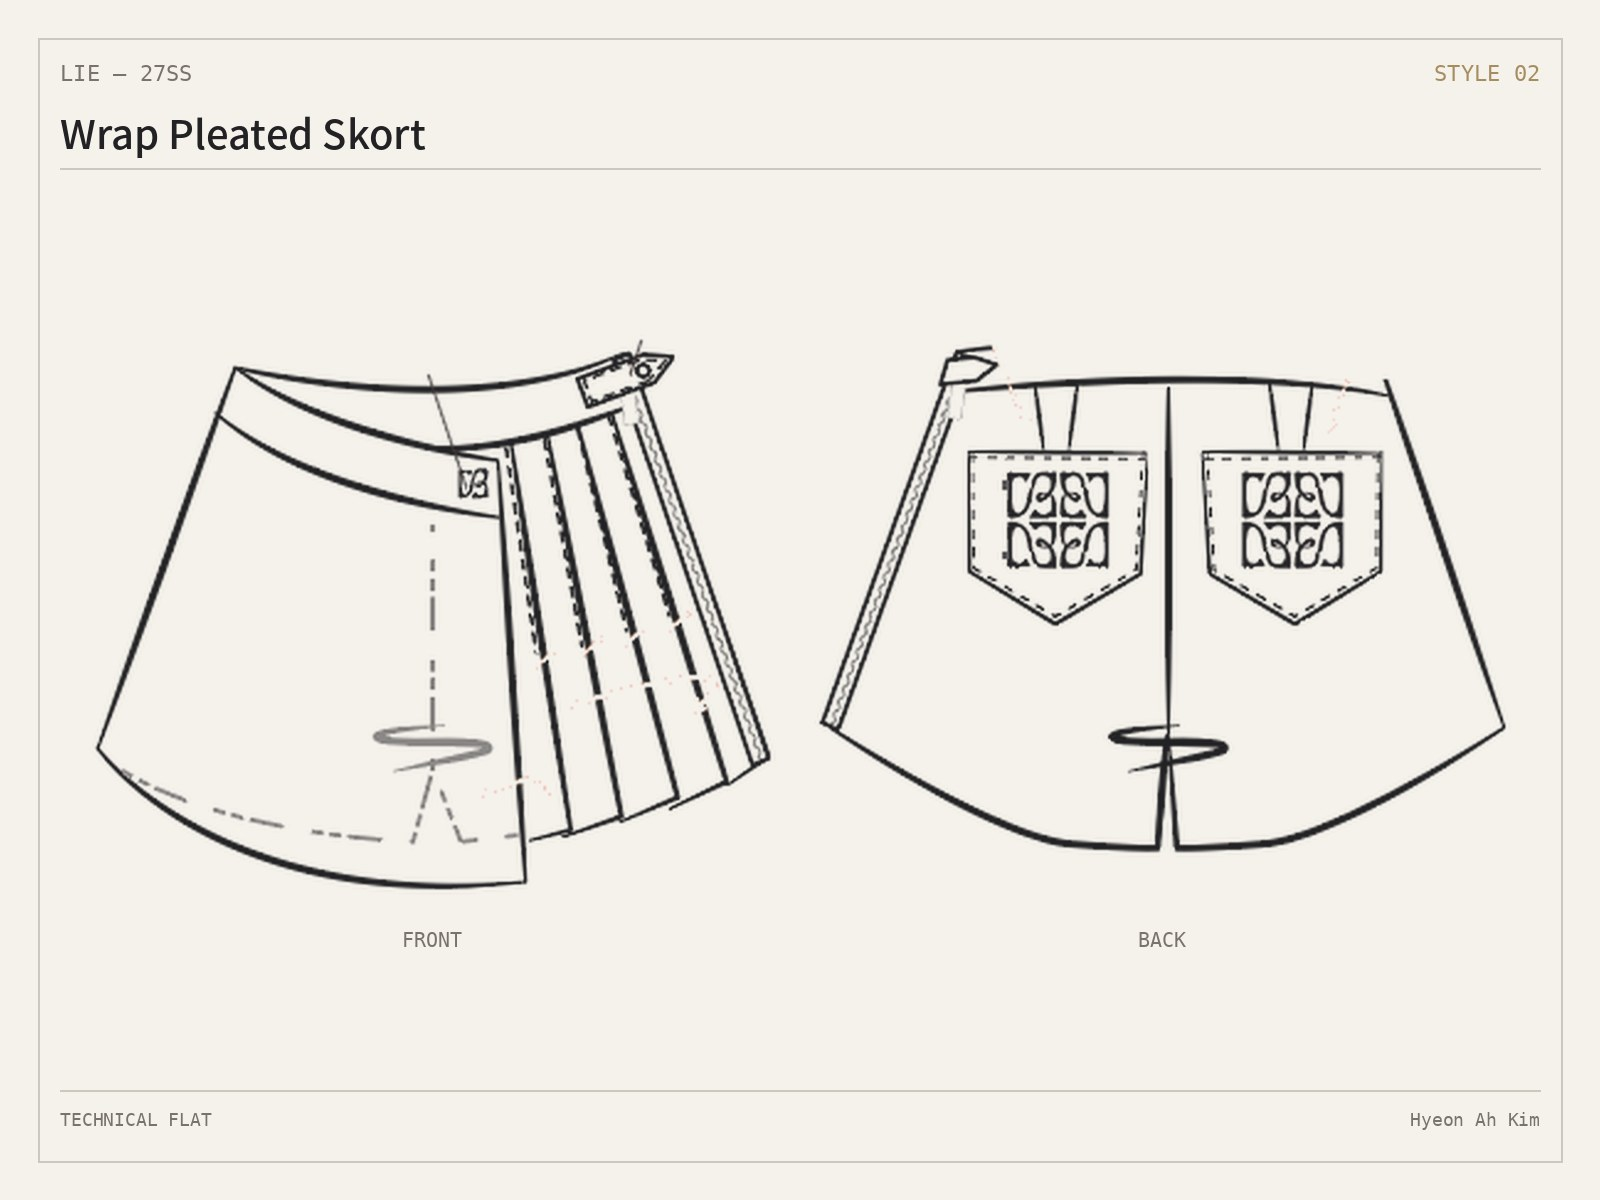
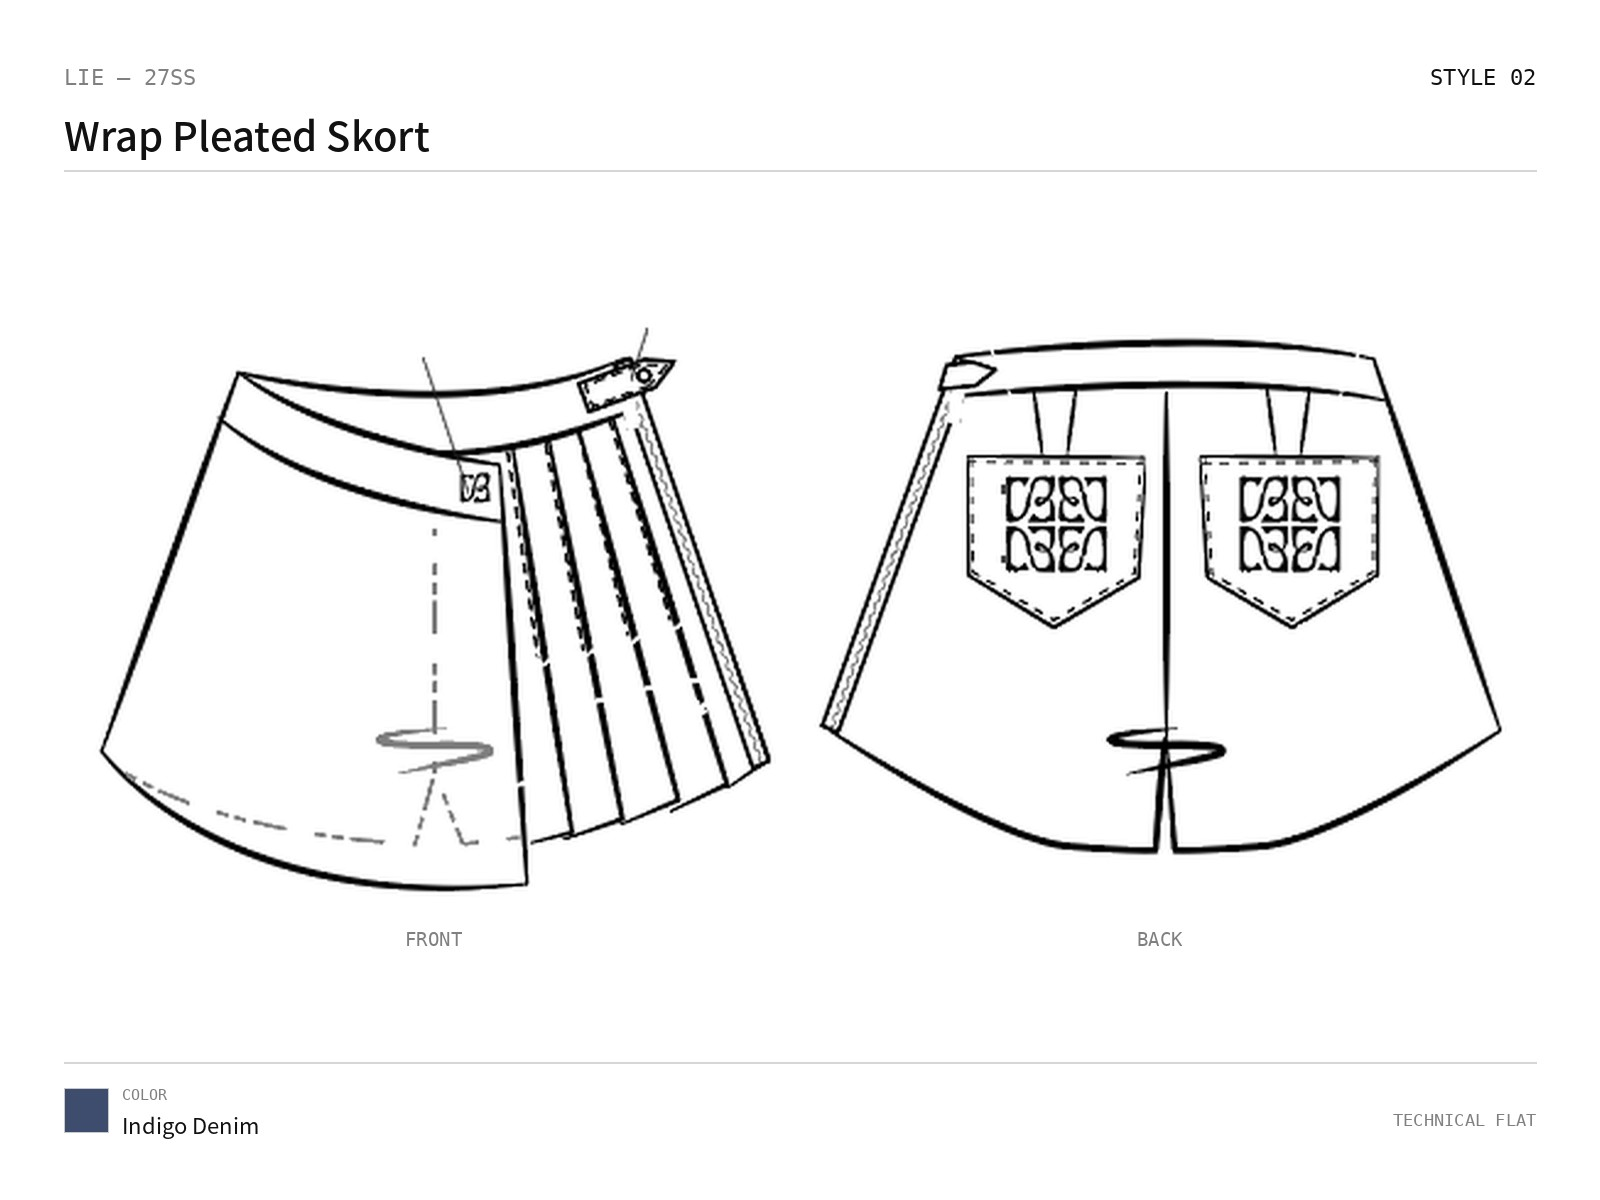
27SS Design to Show: B&W technical flats (annotations removed, shapes verified) paired with looks + color chips; 24FW flats to B&W with chips
Claude-Session: https://claude.ai/code/session_01Bs1wxDBAEjZhvDBkhAXViZ

diff --git a/27ss.html b/27ss.html
@@ -197,6 +197,17 @@
         }
         .logo-note { padding: 0; margin: -24px 0 18px; color: #777; font-size: 14px; font-weight: 300; }
         .g-grid.r-45 .img-wrap { background: #f5f2ec; }
+        /* Design to Show */
+        .d2s-grid { display: grid; grid-template-columns: repeat(2, minmax(0, 1fr)); gap: 44px 22px; }
+        .d2s { margin: 0; }
+        .d2s-row { display: grid; grid-template-columns: 2fr 1fr; gap: 8px; }
+        .d2s .img-wrap { background: #fff; cursor: zoom-in; }
+        .d2s .img-wrap.flat { aspect-ratio: 4 / 3; }
+        .d2s .img-wrap.look { aspect-ratio: 2 / 3; background: #111; }
+        .d2s .img-wrap img { width: 100%; height: 100%; object-fit: cover; object-position: center top; }
+        .d2s figcaption { margin-top: 12px; font-family: monospace; font-size: 11px; letter-spacing: 2px; color: #777; text-transform: uppercase; }
+        .d2s figcaption b { color: #ddd; font-weight: 400; margin-right: 10px; }
+        @media (max-width: 1000px) { .d2s-grid { grid-template-columns: 1fr; } }
     </style>
     <link rel="stylesheet" href="style.css">
 </head>
@@ -254,8 +265,8 @@
         <div class="gallery-section-title" data-slot="scene">Show Scenes <small>03</small></div>
         <div class="g-block"><div class="g-grid cols-3 r-32"><div class="img-wrap"><img src="images/27ss/scene_01.jpg" alt="27SS Show — Red stage" loading="lazy" decoding="async"></div><div class="img-wrap"><img src="images/27ss/scene_02.jpg" alt="27SS Show — Red stage" loading="lazy" decoding="async"></div><div class="img-wrap"><img src="images/27ss/scene_03.jpg" alt="27SS Show — Finale" loading="lazy" decoding="async"></div></div></div>
 
-        <div class="gallery-section-title" data-slot="tf">Technical Flat <small>12</small></div>
-        <div class="g-block"><div class="g-grid cols-2 r-43"><div class="img-wrap"><img src="images/27ss/flat_01.jpg" alt="27SS Technical Flat 01" loading="lazy" decoding="async"></div><div class="img-wrap"><img src="images/27ss/flat_02.jpg" alt="27SS Technical Flat 02" loading="lazy" decoding="async"></div><div class="img-wrap"><img src="images/27ss/flat_03.jpg" alt="27SS Technical Flat 03" loading="lazy" decoding="async"></div><div class="img-wrap"><img src="images/27ss/flat_04.jpg" alt="27SS Technical Flat 04" loading="lazy" decoding="async"></div><div class="img-wrap"><img src="images/27ss/flat_05.jpg" alt="27SS Technical Flat 05" loading="lazy" decoding="async"></div><div class="img-wrap"><img src="images/27ss/flat_06.jpg" alt="27SS Technical Flat 06" loading="lazy" decoding="async"></div><div class="img-wrap"><img src="images/27ss/flat_07.jpg" alt="27SS Technical Flat 07" loading="lazy" decoding="async"></div><div class="img-wrap"><img src="images/27ss/flat_08.jpg" alt="27SS Technical Flat 08" loading="lazy" decoding="async"></div><div class="img-wrap"><img src="images/27ss/flat_09.jpg" alt="27SS Technical Flat 09" loading="lazy" decoding="async"></div><div class="img-wrap"><img src="images/27ss/flat_10.jpg" alt="27SS Technical Flat 10" loading="lazy" decoding="async"></div><div class="img-wrap"><img src="images/27ss/flat_11.jpg" alt="27SS Technical Flat 11" loading="lazy" decoding="async"></div><div class="img-wrap"><img src="images/27ss/flat_12.jpg" alt="27SS Technical Flat 12" loading="lazy" decoding="async"></div></div></div>
+        <div class="gallery-section-title" data-slot="tf">Design to Show <small>12</small></div>
+        <div class="g-block"><div class="d2s-grid"><figure class="d2s"><div class="d2s-row"><div class="img-wrap flat"><img src="images/27ss/flat_01.jpg" alt="27SS Style 01 technical flat" loading="lazy" decoding="async"></div><div class="img-wrap look"><img src="images/27ss/lookbook_03.jpg" alt="27SS Style 01 — Lookbook 03" loading="lazy" decoding="async"></div></div><figcaption><b>STYLE 01</b> Design → Lookbook 03</figcaption></figure><figure class="d2s"><div class="d2s-row"><div class="img-wrap flat"><img src="images/27ss/flat_02.jpg" alt="27SS Style 02 technical flat" loading="lazy" decoding="async"></div><div class="img-wrap look"><img src="images/27ss/lookbook_03.jpg" alt="27SS Style 02 — Lookbook 03" loading="lazy" decoding="async"></div></div><figcaption><b>STYLE 02</b> Design → Lookbook 03</figcaption></figure><figure class="d2s"><div class="d2s-row"><div class="img-wrap flat"><img src="images/27ss/flat_03.jpg" alt="27SS Style 03 technical flat" loading="lazy" decoding="async"></div><div class="img-wrap look"><img src="images/27ss/lookbook_09.jpg" alt="27SS Style 03 — Lookbook 09" loading="lazy" decoding="async"></div></div><figcaption><b>STYLE 03</b> Design → Lookbook 09</figcaption></figure><figure class="d2s"><div class="d2s-row"><div class="img-wrap flat"><img src="images/27ss/flat_04.jpg" alt="27SS Style 04 technical flat" loading="lazy" decoding="async"></div><div class="img-wrap look"><img src="images/27ss/lookbook_06.jpg" alt="27SS Style 04 — Lookbook 06" loading="lazy" decoding="async"></div></div><figcaption><b>STYLE 04</b> Design → Lookbook 06</figcaption></figure><figure class="d2s"><div class="d2s-row"><div class="img-wrap flat"><img src="images/27ss/flat_05.jpg" alt="27SS Style 05 technical flat" loading="lazy" decoding="async"></div><div class="img-wrap look"><img src="images/27ss/lookbook_10.jpg" alt="27SS Style 05 — Lookbook 10" loading="lazy" decoding="async"></div></div><figcaption><b>STYLE 05</b> Design → Lookbook 10</figcaption></figure><figure class="d2s"><div class="d2s-row"><div class="img-wrap flat"><img src="images/27ss/flat_06.jpg" alt="27SS Style 06 technical flat" loading="lazy" decoding="async"></div><div class="img-wrap look"><img src="images/27ss/lookbook_07.jpg" alt="27SS Style 06 — Lookbook 07" loading="lazy" decoding="async"></div></div><figcaption><b>STYLE 06</b> Design → Lookbook 07</figcaption></figure><figure class="d2s"><div class="d2s-row"><div class="img-wrap flat"><img src="images/27ss/flat_07.jpg" alt="27SS Style 07 technical flat" loading="lazy" decoding="async"></div><div class="img-wrap look"><img src="images/27ss/lookbook_11.jpg" alt="27SS Style 07 — Lookbook 11" loading="lazy" decoding="async"></div></div><figcaption><b>STYLE 07</b> Design → Lookbook 11</figcaption></figure><figure class="d2s"><div class="d2s-row"><div class="img-wrap flat"><img src="images/27ss/flat_08.jpg" alt="27SS Style 08 technical flat" loading="lazy" decoding="async"></div><div class="img-wrap look"><img src="images/27ss/lookbook_02.jpg" alt="27SS Style 08 — Lookbook 02" loading="lazy" decoding="async"></div></div><figcaption><b>STYLE 08</b> Design → Lookbook 02</figcaption></figure><figure class="d2s"><div class="d2s-row"><div class="img-wrap flat"><img src="images/27ss/flat_09.jpg" alt="27SS Style 09 technical flat" loading="lazy" decoding="async"></div><div class="img-wrap look"><img src="images/27ss/lookbook_04.jpg" alt="27SS Style 09 — Lookbook 04" loading="lazy" decoding="async"></div></div><figcaption><b>STYLE 09</b> Design → Lookbook 04</figcaption></figure><figure class="d2s"><div class="d2s-row"><div class="img-wrap flat"><img src="images/27ss/flat_10.jpg" alt="27SS Style 10 technical flat" loading="lazy" decoding="async"></div><div class="img-wrap look"><img src="images/27ss/lookbook_05.jpg" alt="27SS Style 10 — Lookbook 05" loading="lazy" decoding="async"></div></div><figcaption><b>STYLE 10</b> Design → Lookbook 05</figcaption></figure><figure class="d2s"><div class="d2s-row"><div class="img-wrap flat"><img src="images/27ss/flat_11.jpg" alt="27SS Style 11 technical flat" loading="lazy" decoding="async"></div><div class="img-wrap look"><img src="images/27ss/runway_12.jpg" alt="27SS Style 11 — Runway Look 12" loading="lazy" decoding="async"></div></div><figcaption><b>STYLE 11</b> Design → Runway Look 12</figcaption></figure><figure class="d2s"><div class="d2s-row"><div class="img-wrap flat"><img src="images/27ss/flat_12.jpg" alt="27SS Style 12 technical flat" loading="lazy" decoding="async"></div><div class="img-wrap look"><img src="images/27ss/lookbook_12.jpg" alt="27SS Style 12 — Lookbook 12" loading="lazy" decoding="async"></div></div><figcaption><b>STYLE 12</b> Design → Lookbook 12</figcaption></figure></div></div>
 
         <div class="gallery-section-title" data-slot="logo">Logo Artwork <small>03</small></div>
         <div class="g-block"><p class="logo-note">27SS 시즌을 위해 직접 그린 키치 캐릭터 로고 — 3가지 버전.</p><div class="g-grid cols-3 r-45"><div class="img-wrap"><img src="images/27ss/logo_01.jpg" alt="27SS Kitsch Logo ver.01" loading="lazy" decoding="async"></div><div class="img-wrap"><img src="images/27ss/logo_02.jpg" alt="27SS Kitsch Logo ver.02" loading="lazy" decoding="async"></div><div class="img-wrap"><img src="images/27ss/logo_03.jpg" alt="27SS Kitsch Logo ver.03" loading="lazy" decoding="async"></div></div></div>

diff --git a/24fw.html b/24fw.html
@@ -208,7 +208,7 @@
 
         /* From Design to Look */
         figure.d2l { margin: 0; }
-        figure.d2l .img-wrap { background: #f4f1eb; }
+        figure.d2l .img-wrap { background: #fff; }
         figure.d2l.dark .img-wrap { background: #000; }
         figure.d2l figcaption { margin-top: 12px; font-family: monospace; font-size: 11px; letter-spacing: 2px; color: #777; text-transform: uppercase; }
         figure.d2l figcaption b { color: #a68d60; font-weight: 400; margin-right: 8px; }
